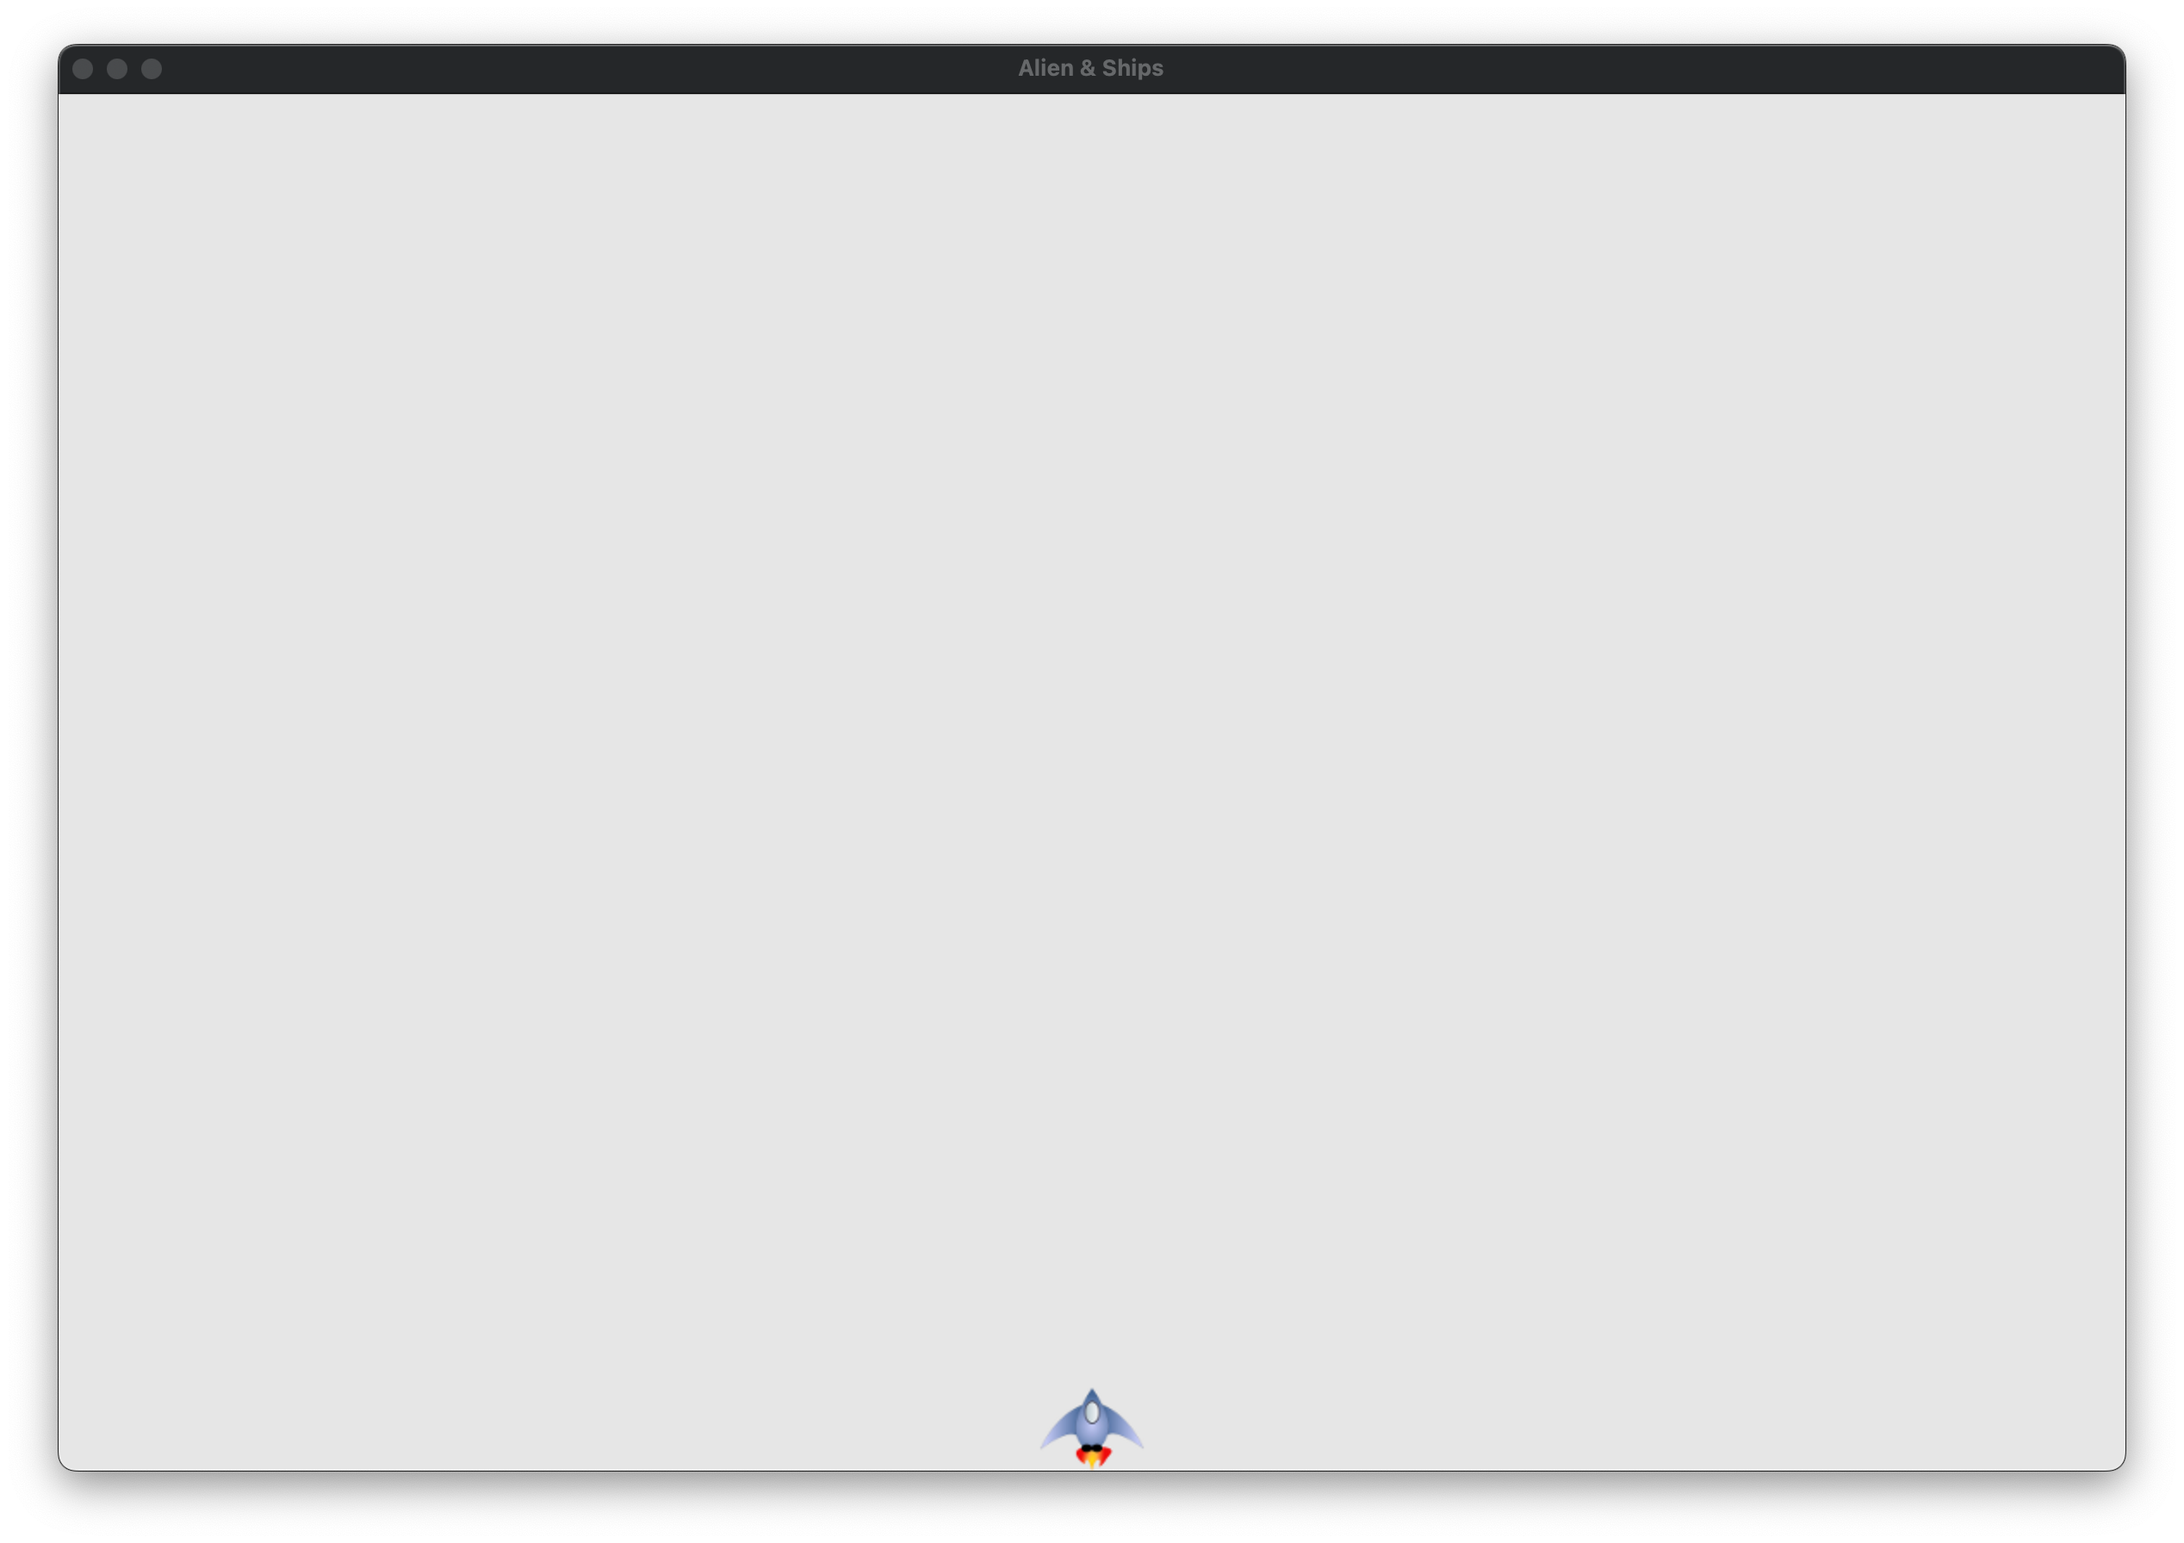
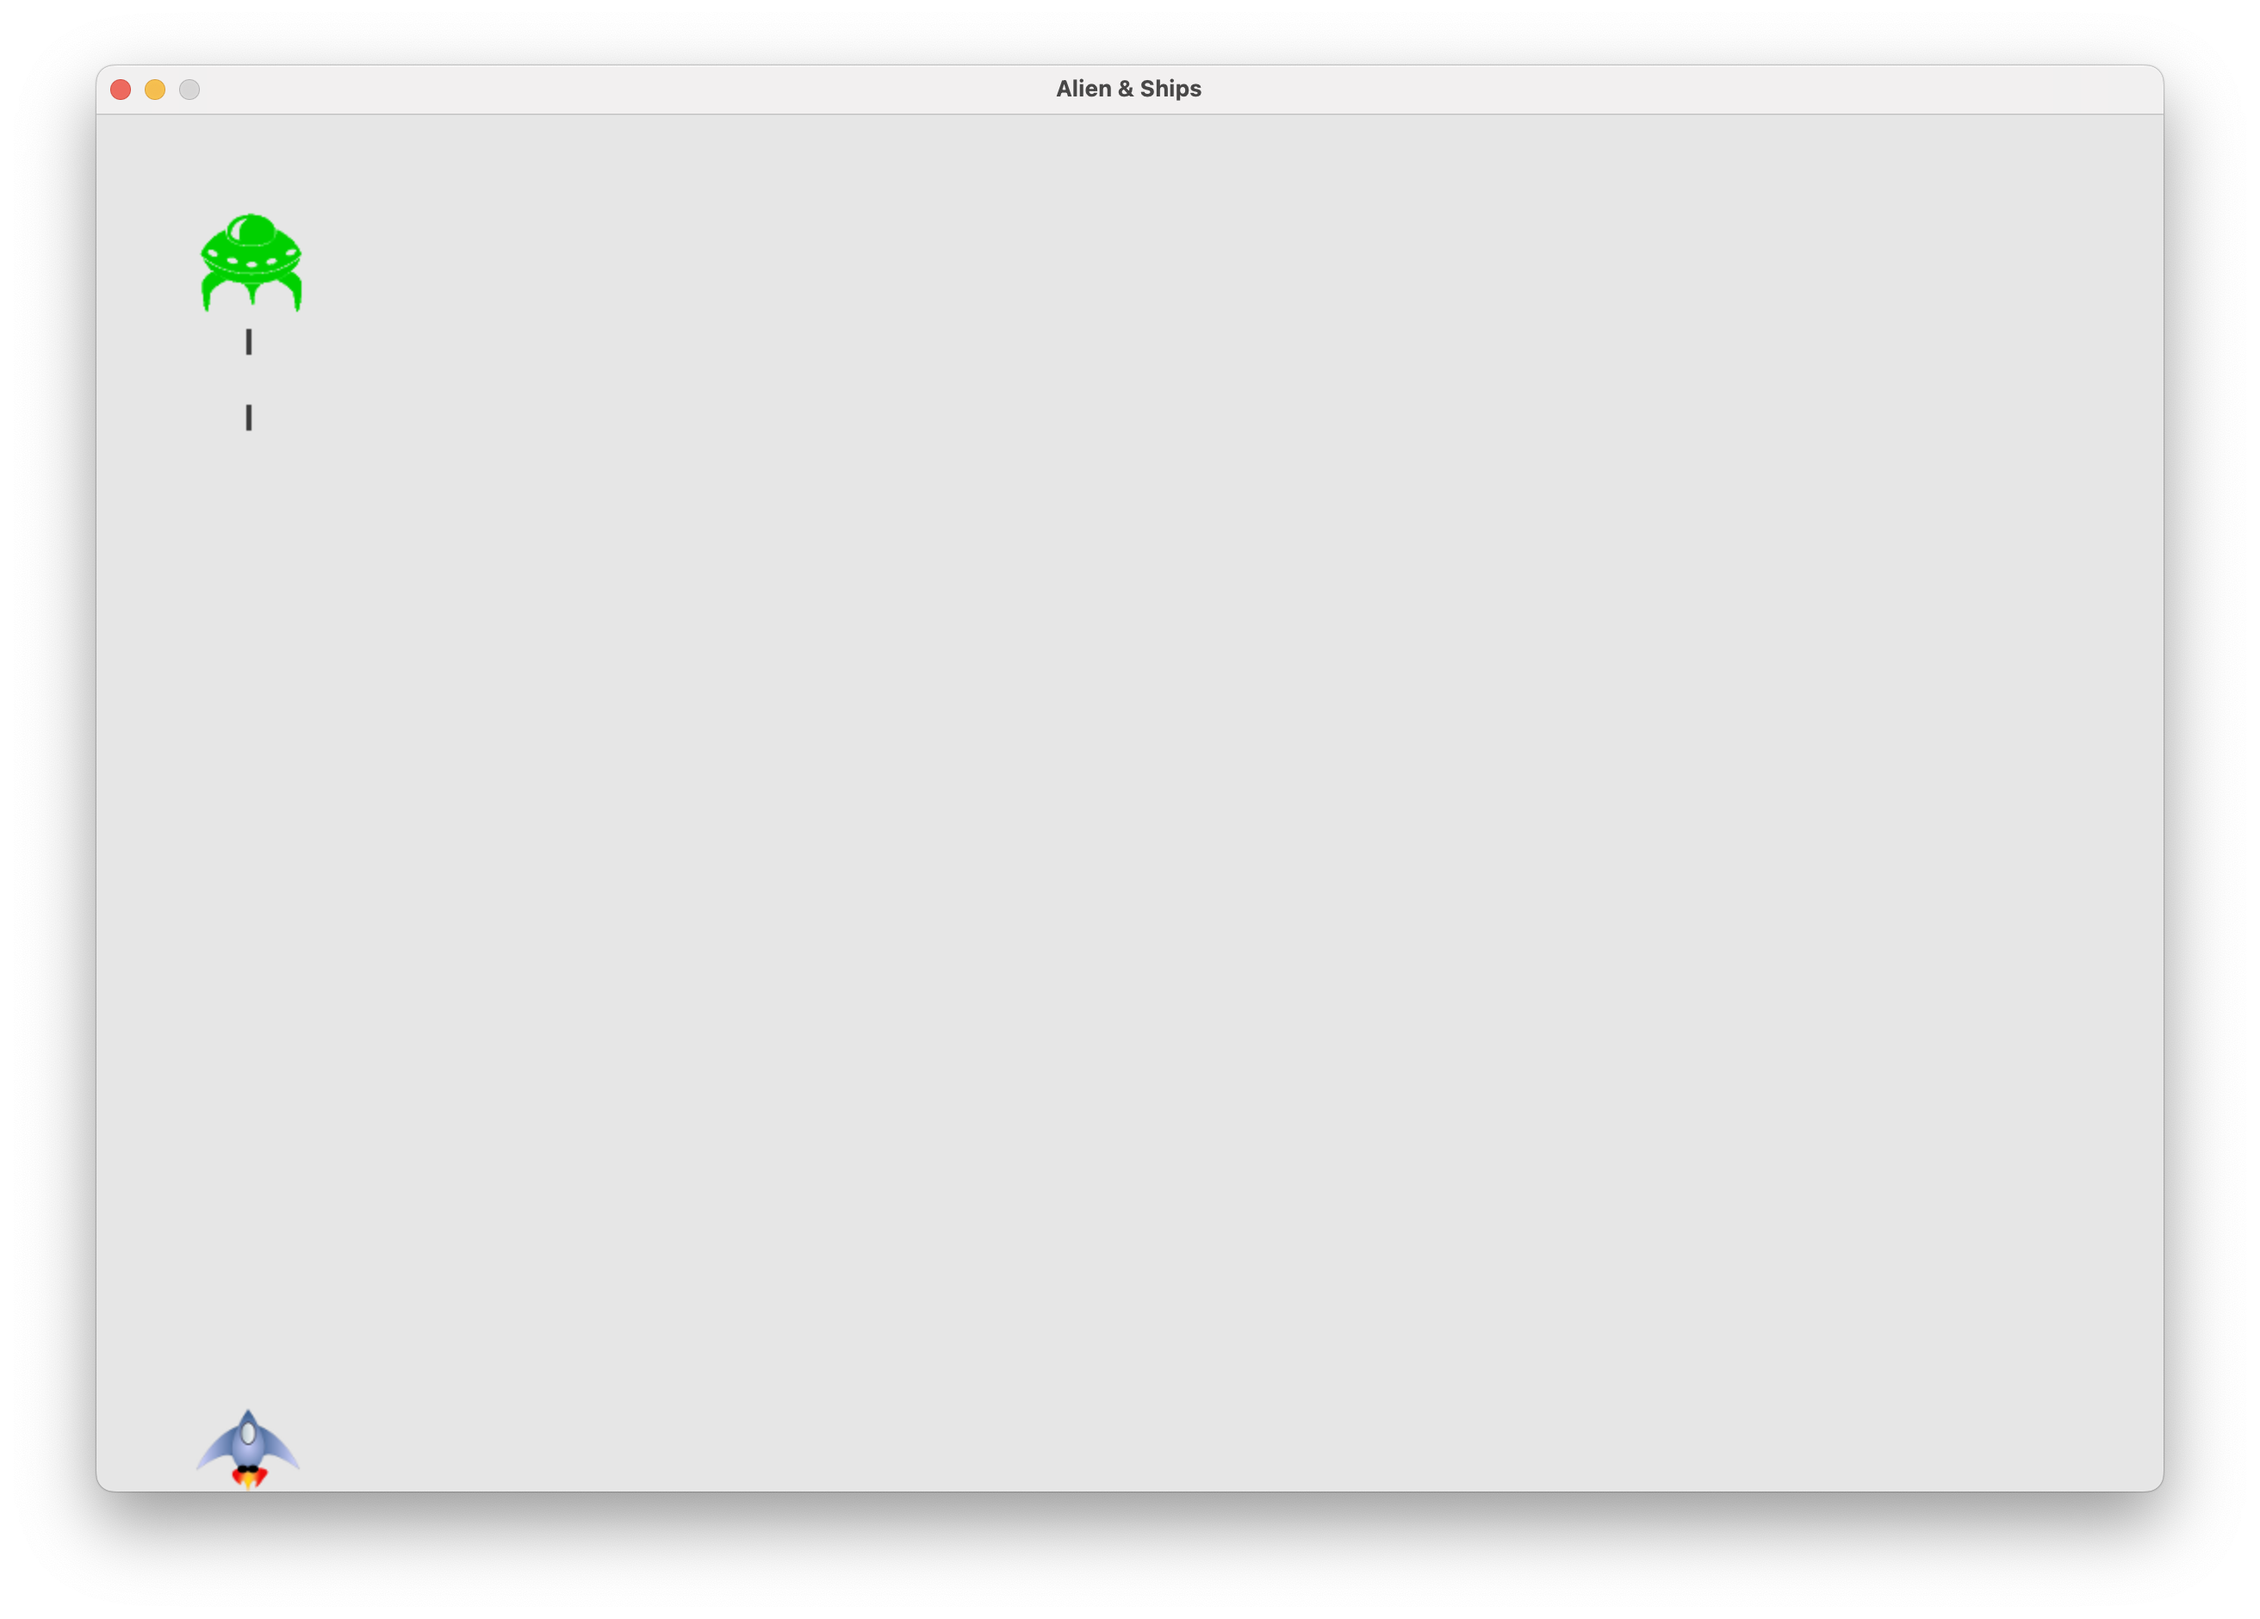
Add alien class

Changed region(s): [[0.0, 0.0312, 0.9968, 0.9688], [0.0623, 0.125, 0.1558, 0.1875]]

diff --git a/Python/Aliens-Ship/alien_battle.py b/Python/Aliens-Ship/alien_battle.py
@@ -1,0 +1,95 @@
+import sys
+import pygame
+
+from alien import Alien
+from settings import Settings
+from ship import Ship
+from bullet import Bullet
+
+class AlienInvasion:
+    def __init__(self):
+        pygame.init()
+        self.settings = Settings()
+        self.bullets = pygame.sprite.Group()
+        self.aliens = pygame.sprite.Group()
+
+        self.screen = pygame.display.set_mode((
+            self.settings.screen_width,
+            self.settings.screen_height
+        ))
+
+        pygame.display.set_caption(self.settings.screen_title)
+
+        self.ship = Ship(self)
+        self.bg_color = self.settings.bg_color
+        self._create_fleet()
+
+    def _create_fleet(self):
+        alien = Alien(self)
+        self.aliens.add(alien)
+
+    def run_game(self):
+        while True:
+            self._check_events()
+            self.ship.update()
+            self.bullets.update()
+            self._remove_bullet()
+            self._check_updates()
+
+    def _remove_bullet(self):
+        for bullet in self.bullets.copy():
+            if bullet.rect.bottom <= 0:
+                self.bullets.remove(bullet)
+
+    def _check_updates(self):
+        self.screen.fill(self.bg_color)
+        self.ship.blitme()
+        self._update_fire()
+        pygame.display.flip()
+
+    def _update_fire(self):
+        for bullet in self.bullets.sprites():
+            bullet.draw_bullet()
+
+        self.aliens.draw(self.screen)
+
+    def _check_events(self):
+        for event in pygame.event.get():
+            if event.type == pygame.QUIT:
+                sys.exit()
+            elif event.type == pygame.KEYDOWN:
+                self._check_keydown_events(event)
+            elif event.type == pygame.KEYUP:
+                self._check_keyup_events(event)
+
+    def _check_keydown_events(self, event):
+        if event.key == pygame.K_RIGHT:
+            self.ship.moving_right = True
+
+        if event.key == pygame.K_LEFT:
+            self.ship.moving_left = True
+
+        if event.key == pygame.K_q:
+            sys.exit()
+
+        if event.key == pygame.K_SPACE:
+            self._fire_bullet()
+
+
+    def _check_keyup_events(self, event):
+        if event.key == pygame.K_RIGHT:
+            self.ship.moving_right = False
+
+        if event.key == pygame.K_LEFT:
+            self.ship.moving_left = False
+
+    def _fire_bullet(self):
+        if len(self.bullets) <= self.settings.bullets_allow:
+            new_bullet = Bullet(self)
+            self.bullets.add(new_bullet)
+
+
+
+if __name__ == '__main__':
+    game = AlienInvasion()
+    game.run_game()

diff --git a/Python/Aliens-Ship/alien.py b/Python/Aliens-Ship/alien.py
@@ -1,79 +1,15 @@
-import sys
 import pygame
-
-from settings import Settings
-from ship import Ship
-from bullet import Bullet
-
-class AlienInvasion:
-    def __init__(self):
-        pygame.init()
-        self.settings = Settings()
-        self.bullets = pygame.sprite.Group()
-
-        self.screen = pygame.display.set_mode((
-            self.settings.screen_width,
-            self.settings.screen_height
-        ))
-
-        pygame.display.set_caption(self.settings.screen_title)
-
-        self.ship = Ship(self)
-        self.bg_color = self.settings.bg_color
-
-    def run_game(self):
-        while True:
-            self._check_events()
-            self.ship.update()
-            self.bullets.update()
-            self._check_updates()
-
-    def _check_updates(self):
-        self.screen.fill(self.bg_color)
-        self.ship.blitme()
-        self._update_fire()
-        pygame.display.flip()
-
-    def _update_fire(self):
-        for bullet in self.bullets.sprites():
-            bullet.draw_bullet()
-
-    def _check_events(self):
-        for event in pygame.event.get():
-            if event.type == pygame.QUIT:
-                sys.exit()
-            elif event.type == pygame.KEYDOWN:
-                self._check_keydown_events(event)
-            elif event.type == pygame.KEYUP:
-                self._check_keyup_events(event)
-
-    def _check_keydown_events(self, event):
-        if event.key == pygame.K_RIGHT:
-            self.ship.moving_right = True
-
-        if event.key == pygame.K_LEFT:
-            self.ship.moving_left = True
-
-        if event.key == pygame.K_q:
-            sys.exit()
-
-        if event.key == pygame.K_SPACE:
-            self._fire_bullet()
+from pygame.sprite import Sprite
 
 
-    def _check_keyup_events(self, event):
-        if event.key == pygame.K_RIGHT:
-            self.ship.moving_right = False
+class Alien(Sprite):
+    def __init__(self, game):
+        super().__init__()
 
-        if event.key == pygame.K_LEFT:
-            self.ship.moving_left = False
+        self.image = pygame.image.load('img/alien.bmp')
+        self.rect = self.image.get_rect()
 
-    def _fire_bullet(self):
-        new_bullet = Bullet(self)
-        self.bullets.add(new_bullet)
+        self.rect.x = self.rect.width
+        self.rect.y = self.rect.height
 
-
-
-if __name__ == '__main__':
-    game = AlienInvasion()
-    game.run_game()
+        self.x = float(self.rect.x)

diff --git a/Python/Aliens-Ship/settings.py b/Python/Aliens-Ship/settings.py
@@ -11,4 +11,5 @@ class Settings:
         self.bullet_width = 3
         self.bullet_height = 15
         self.bullet_color = (60, 60, 60)
+        self.bullets_allow = 3
 

diff --git a/README.md b/README.md
@@ -93,7 +93,7 @@ To run the game need to install pygame.
   ```
 * In project path
   ```bash
-    $ python alien.py
+    $ python alien_battle.py
   ```
 
 </details>
